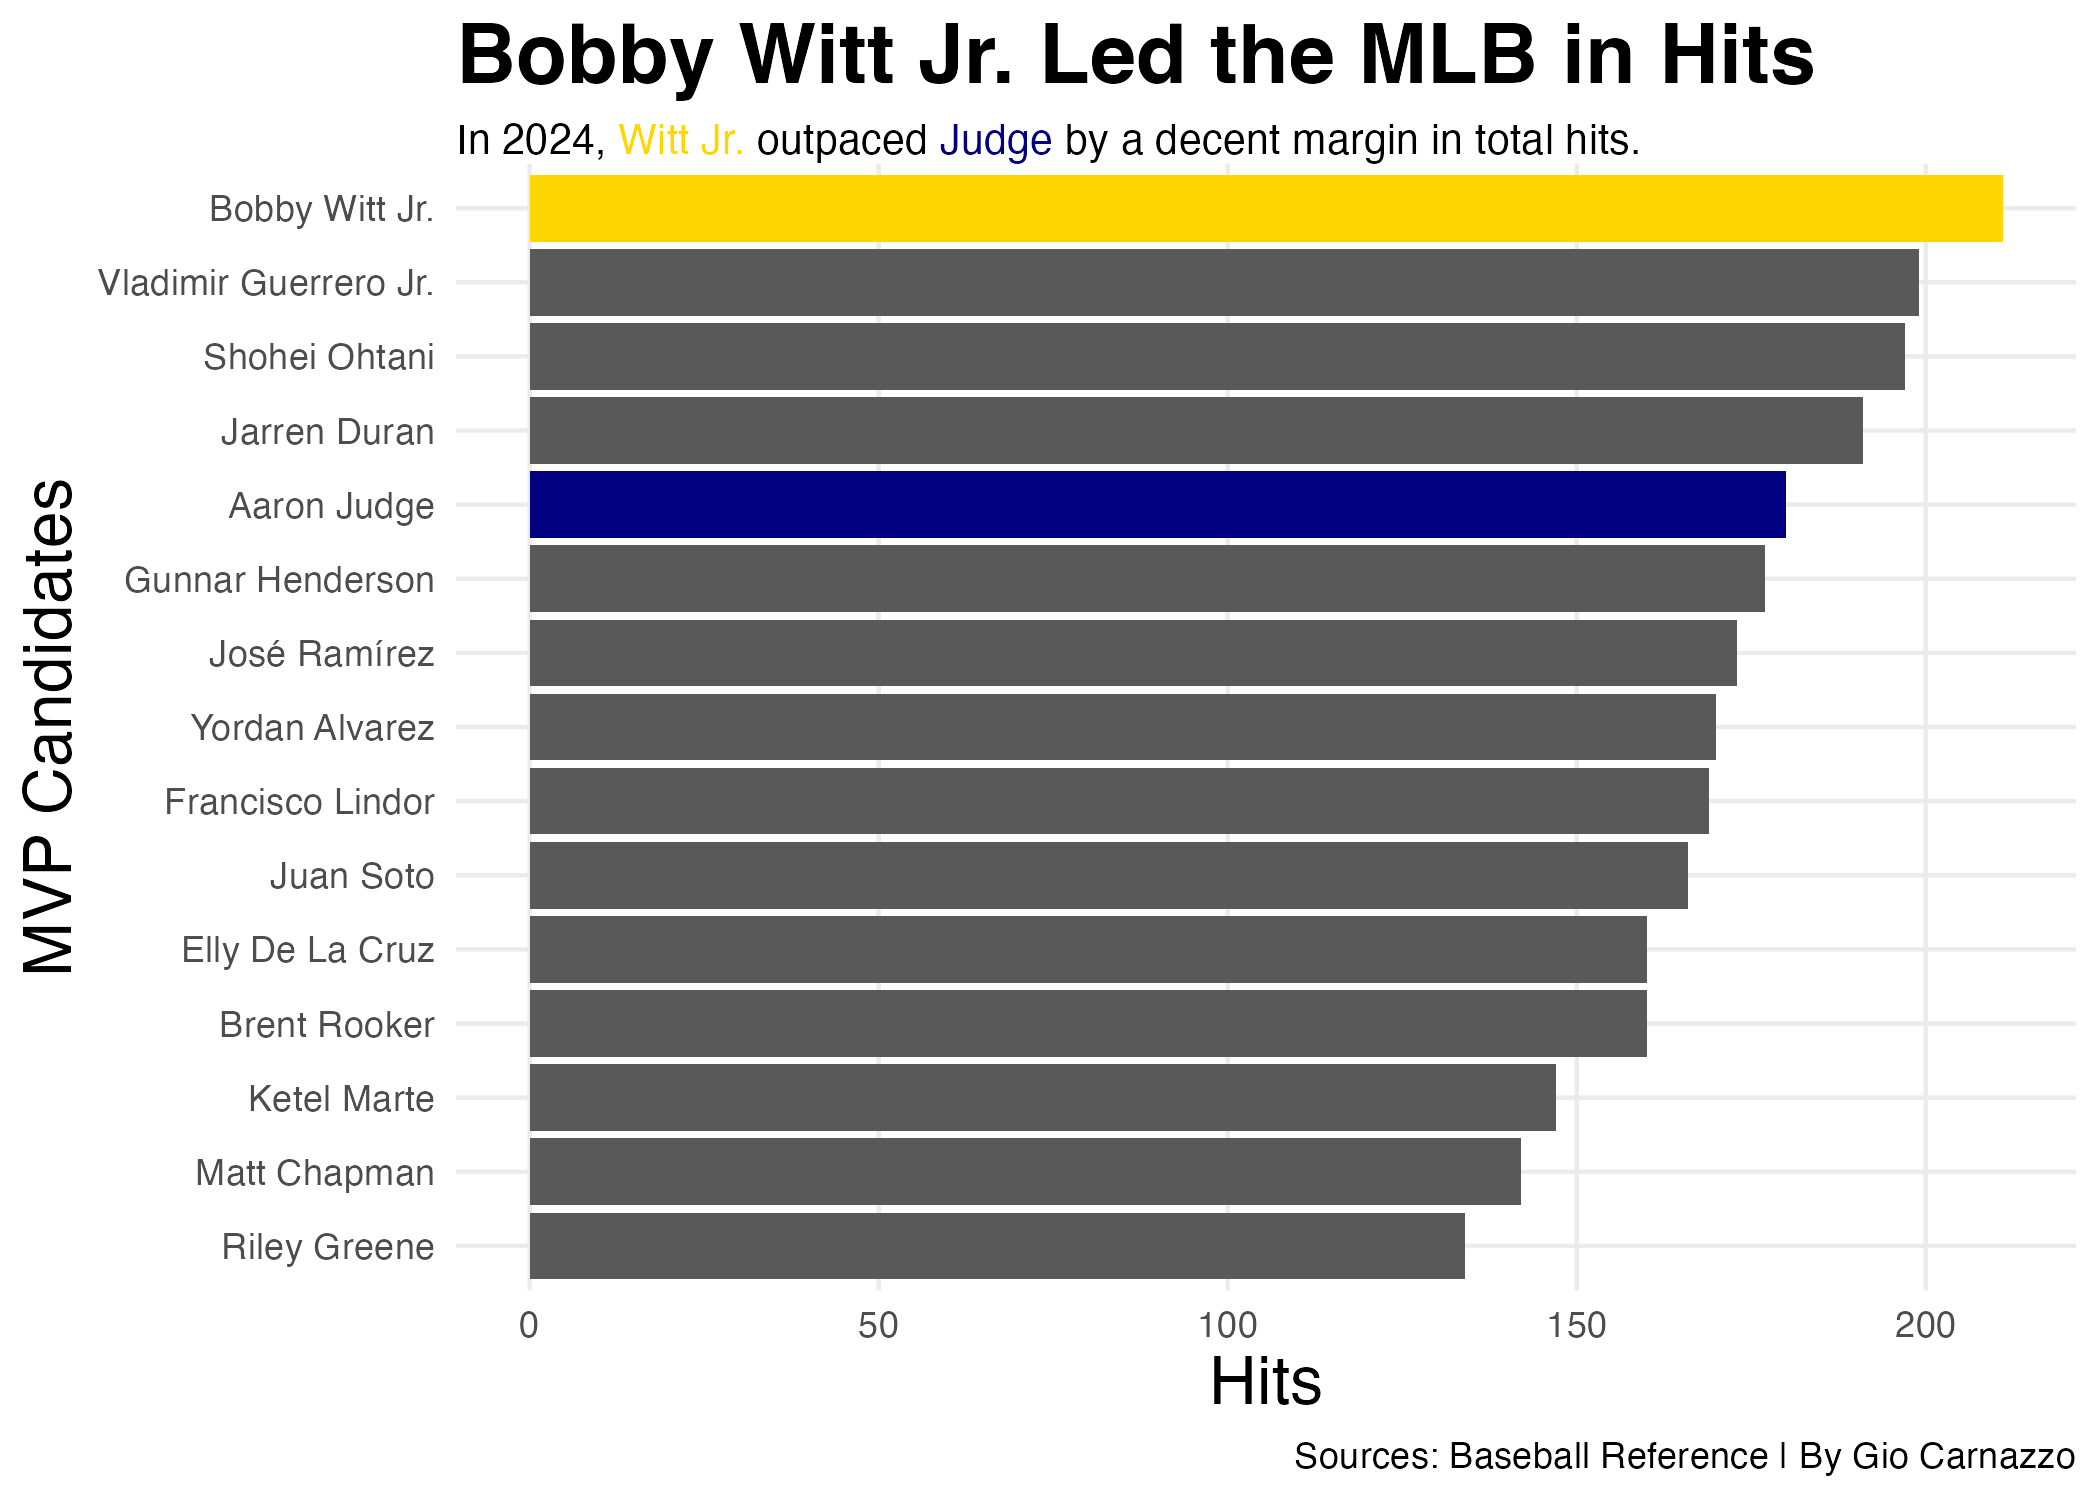
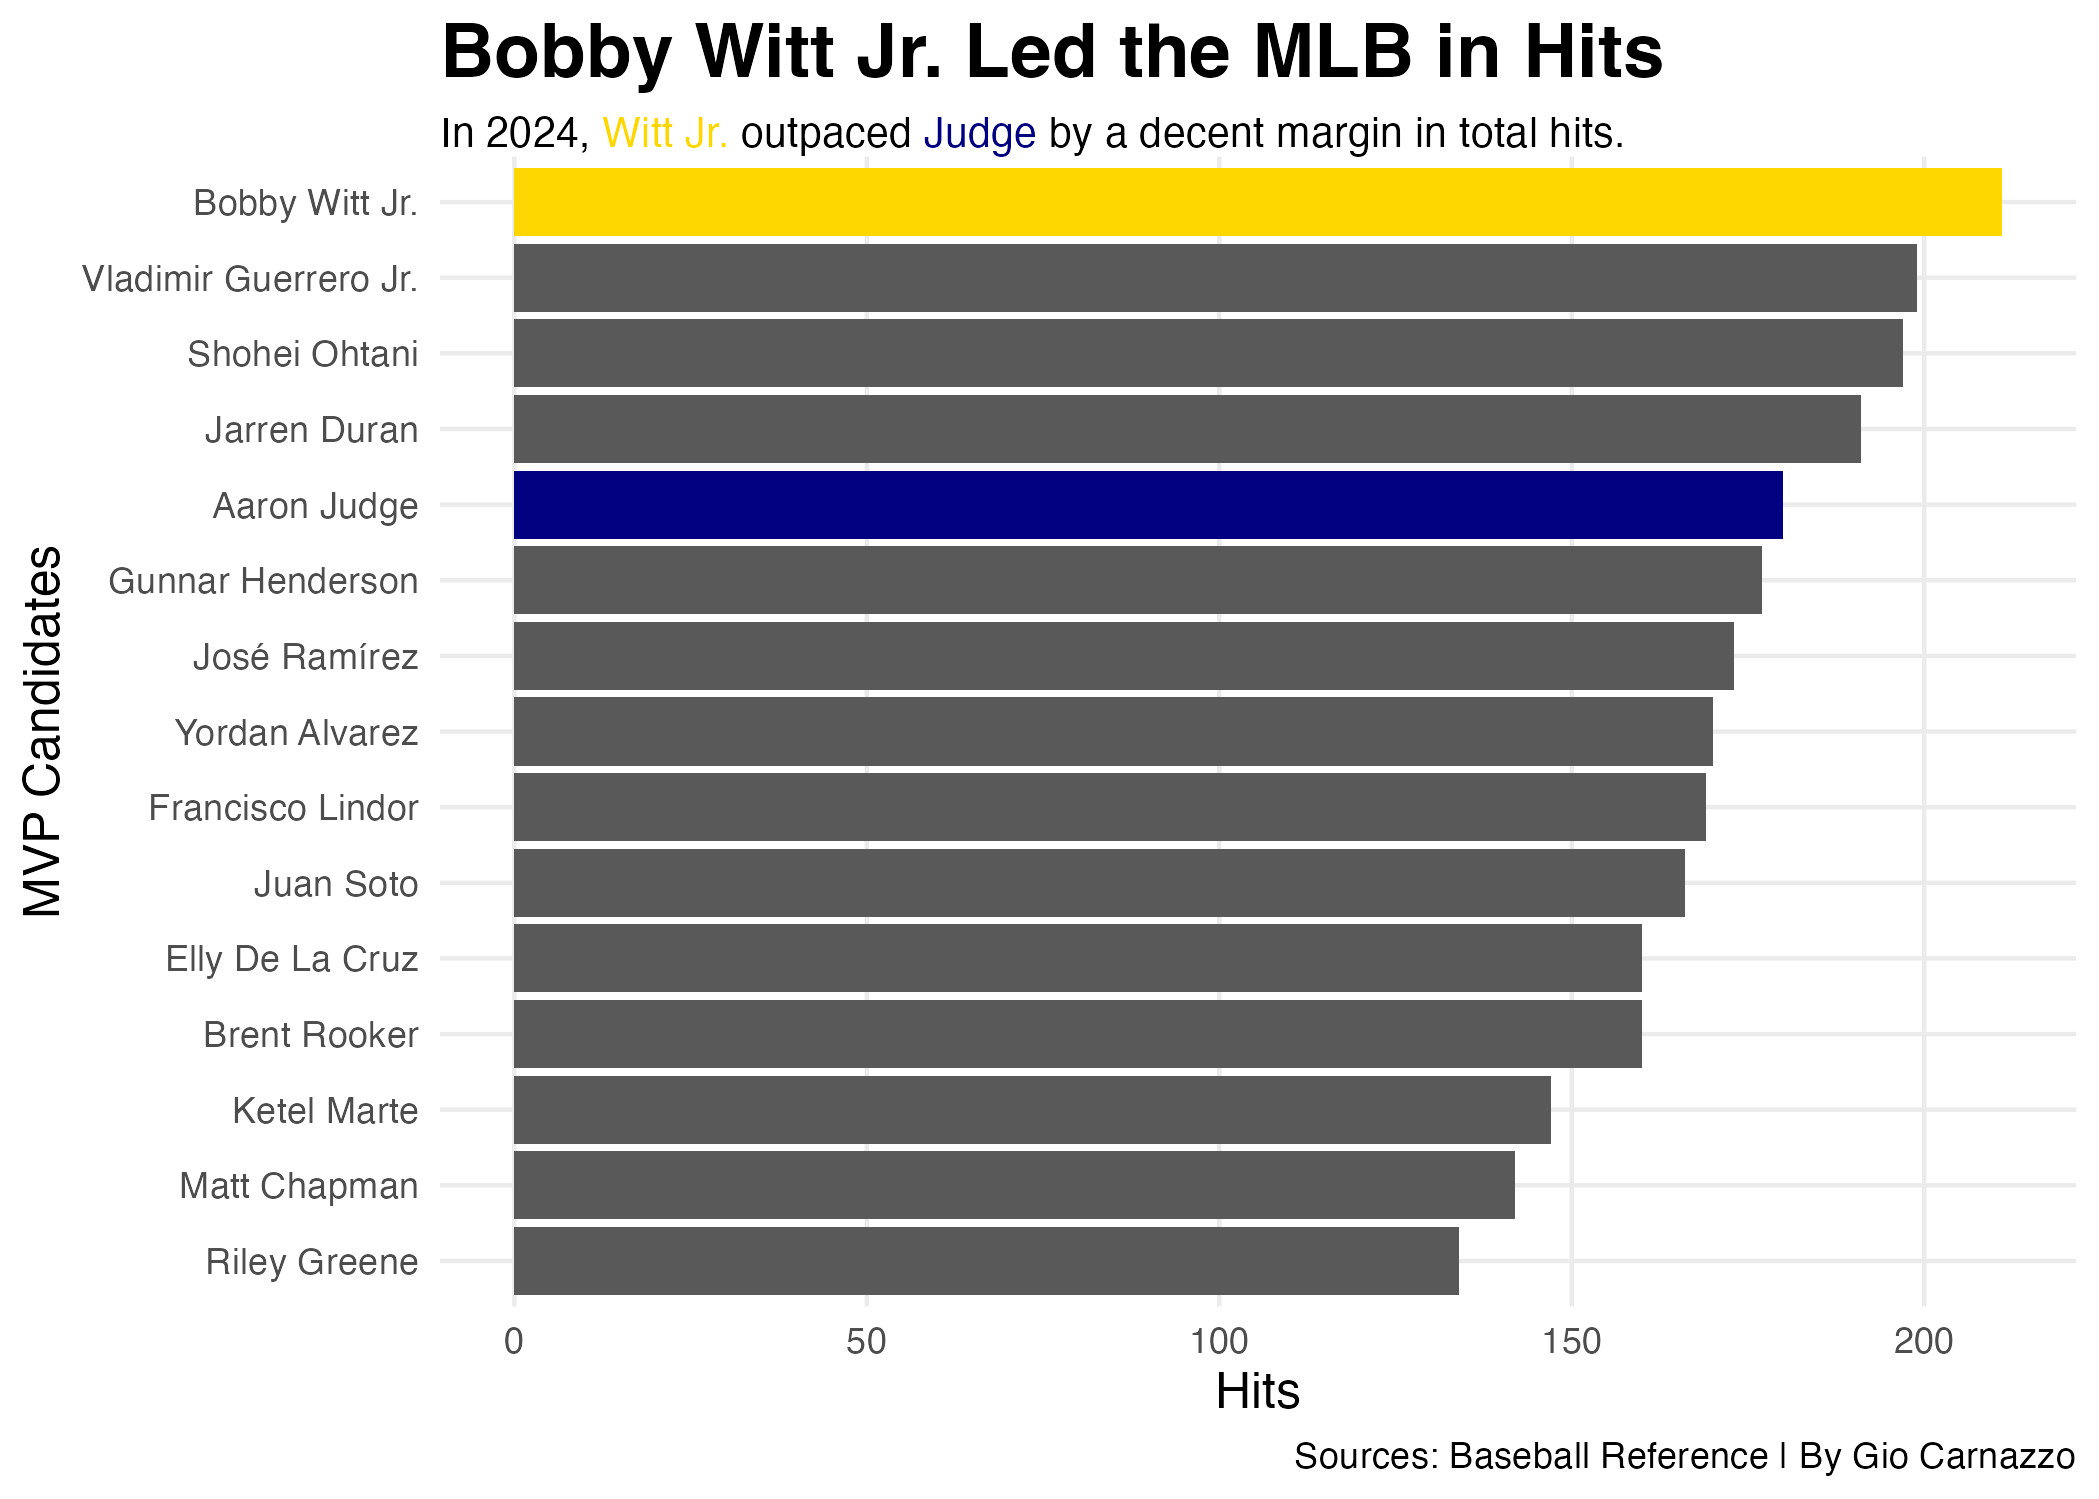
Titles and subs

diff --git a/posts/bobby-witt-jr-baseball-mlb-mvp-race/index.html b/posts/bobby-witt-jr-baseball-mlb-mvp-race/index.html
@@ -226,8 +226,8 @@ pre > code.sourceCode > span > a:first-child::before { text-decoration: underlin
 <span id="cb1-35"><a href="#cb1-35" aria-hidden="true" tabindex="-1"></a>    <span class="at">y =</span> <span class="st">"Hits"</span>,</span>
 <span id="cb1-36"><a href="#cb1-36" aria-hidden="true" tabindex="-1"></a>  ) <span class="sc">+</span> <span class="fu">theme_minimal</span>() <span class="sc">+</span></span>
 <span id="cb1-37"><a href="#cb1-37" aria-hidden="true" tabindex="-1"></a>  <span class="fu">theme</span>(</span>
-<span id="cb1-38"><a href="#cb1-38" aria-hidden="true" tabindex="-1"></a>    <span class="at">plot.title =</span> <span class="fu">element_text</span>(<span class="at">size =</span> <span class="dv">20</span>, <span class="at">face =</span> <span class="st">"bold"</span>),</span>
-<span id="cb1-39"><a href="#cb1-39" aria-hidden="true" tabindex="-1"></a>    <span class="at">axis.title =</span> <span class="fu">element_text</span>(<span class="at">size =</span> <span class="dv">16</span>),</span>
+<span id="cb1-38"><a href="#cb1-38" aria-hidden="true" tabindex="-1"></a>    <span class="at">plot.title =</span> <span class="fu">element_text</span>(<span class="at">size =</span> <span class="dv">18</span>, <span class="at">face =</span> <span class="st">"bold"</span>),</span>
+<span id="cb1-39"><a href="#cb1-39" aria-hidden="true" tabindex="-1"></a>    <span class="at">axis.title =</span> <span class="fu">element_text</span>(<span class="at">size =</span> <span class="dv">12</span>),</span>
 <span id="cb1-40"><a href="#cb1-40" aria-hidden="true" tabindex="-1"></a>    <span class="at">plot.subtitle =</span> <span class="fu">element_textbox_simple</span>(<span class="at">size =</span> <span class="dv">10</span>),</span>
 <span id="cb1-41"><a href="#cb1-41" aria-hidden="true" tabindex="-1"></a>    <span class="at">panel.grid.minor =</span> <span class="fu">element_blank</span>()</span>
 <span id="cb1-42"><a href="#cb1-42" aria-hidden="true" tabindex="-1"></a>  )</span></code><button title="Copy to Clipboard" class="code-copy-button"><i class="bi"></i></button></pre></div>
@@ -266,7 +266,7 @@ pre > code.sourceCode > span > a:first-child::before { text-decoration: underlin
 <span id="cb2-19"><a href="#cb2-19" aria-hidden="true" tabindex="-1"></a>       <span class="at">subtitle =</span> <span class="st">"&lt;span style = 'color:gold;'&gt;Witt Jr.&lt;/span&gt; and &lt;span style = 'color:navy;'&gt;Judge&lt;/span&gt; end up amongst the most productive MVP seasons in the last 25 years."</span>,</span>
 <span id="cb2-20"><a href="#cb2-20" aria-hidden="true" tabindex="-1"></a>       <span class="at">caption=</span><span class="st">"Source: Baseball Reference | By Gio Carnazzo"</span>) <span class="sc">+</span></span>
 <span id="cb2-21"><a href="#cb2-21" aria-hidden="true" tabindex="-1"></a>  <span class="fu">theme</span>(</span>
-<span id="cb2-22"><a href="#cb2-22" aria-hidden="true" tabindex="-1"></a>    <span class="at">plot.title =</span> <span class="fu">element_text</span>(<span class="at">size =</span> <span class="dv">16</span>, <span class="at">face =</span> <span class="st">"bold"</span>),</span>
+<span id="cb2-22"><a href="#cb2-22" aria-hidden="true" tabindex="-1"></a>    <span class="at">plot.title =</span> <span class="fu">element_text</span>(<span class="at">size =</span> <span class="dv">18</span>, <span class="at">face =</span> <span class="st">"bold"</span>),</span>
 <span id="cb2-23"><a href="#cb2-23" aria-hidden="true" tabindex="-1"></a>    <span class="at">plot.subtitle =</span> <span class="fu">element_textbox_simple</span>(<span class="at">size =</span> <span class="dv">12</span>),</span>
 <span id="cb2-24"><a href="#cb2-24" aria-hidden="true" tabindex="-1"></a>    <span class="at">axis.title =</span> <span class="fu">element_text</span>(<span class="at">size =</span> <span class="dv">10</span>),</span>
 <span id="cb2-25"><a href="#cb2-25" aria-hidden="true" tabindex="-1"></a>    <span class="at">panel.grid.minor =</span> <span class="fu">element_blank</span>()</span>

diff --git a/index.html b/index.html
@@ -200,7 +200,7 @@ window.Quarto = {
 
 <div class="quarto-listing quarto-listing-container-default" id="listing-listing">
 <div class="list quarto-listing-default">
-<div class="quarto-post image-right" data-index="0" data-categories="bWxiLGJhc2ViYWxsLGthbnNhcyBjaXR5IHJveWFscw==" data-listing-date-sort="1730790000000" data-listing-file-modified-sort="1731781434764" data-listing-date-modified-sort="NaN" data-listing-reading-time-sort="3" data-listing-word-count-sort="420">
+<div class="quarto-post image-right" data-index="0" data-categories="bWxiLGJhc2ViYWxsLGthbnNhcyBjaXR5IHJveWFscw==" data-listing-date-sort="1730790000000" data-listing-file-modified-sort="1731782266321" data-listing-date-modified-sort="NaN" data-listing-reading-time-sort="3" data-listing-word-count-sort="420">
 <div class="thumbnail">
 <p><a href="./posts/bobby-witt-jr-baseball-mlb-mvp-race/index.html" class="no-external"></a></p><a href="./posts/bobby-witt-jr-baseball-mlb-mvp-race/index.html" class="no-external">
 <p><img loading="lazy" src="./posts/bobby-witt-jr-baseball-mlb-mvp-race/image.png" class="thumbnail-image"></p>
